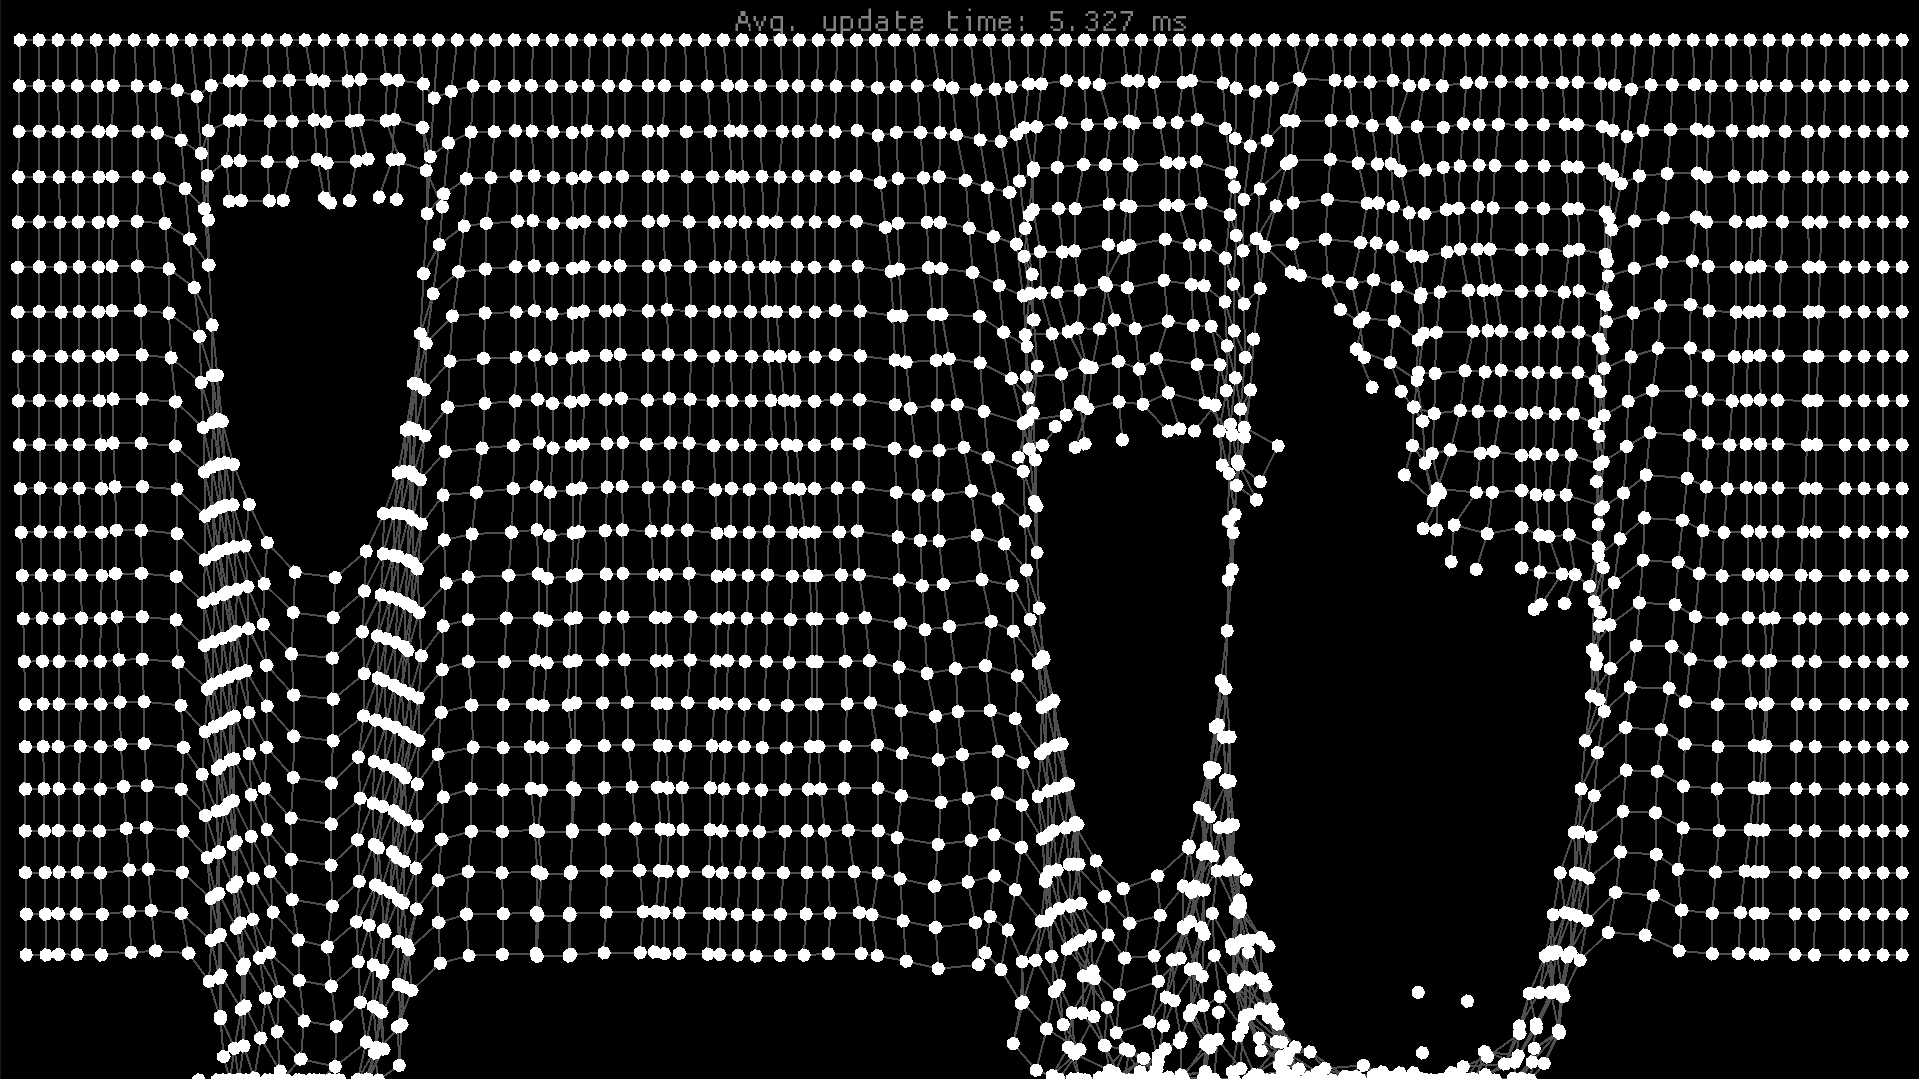
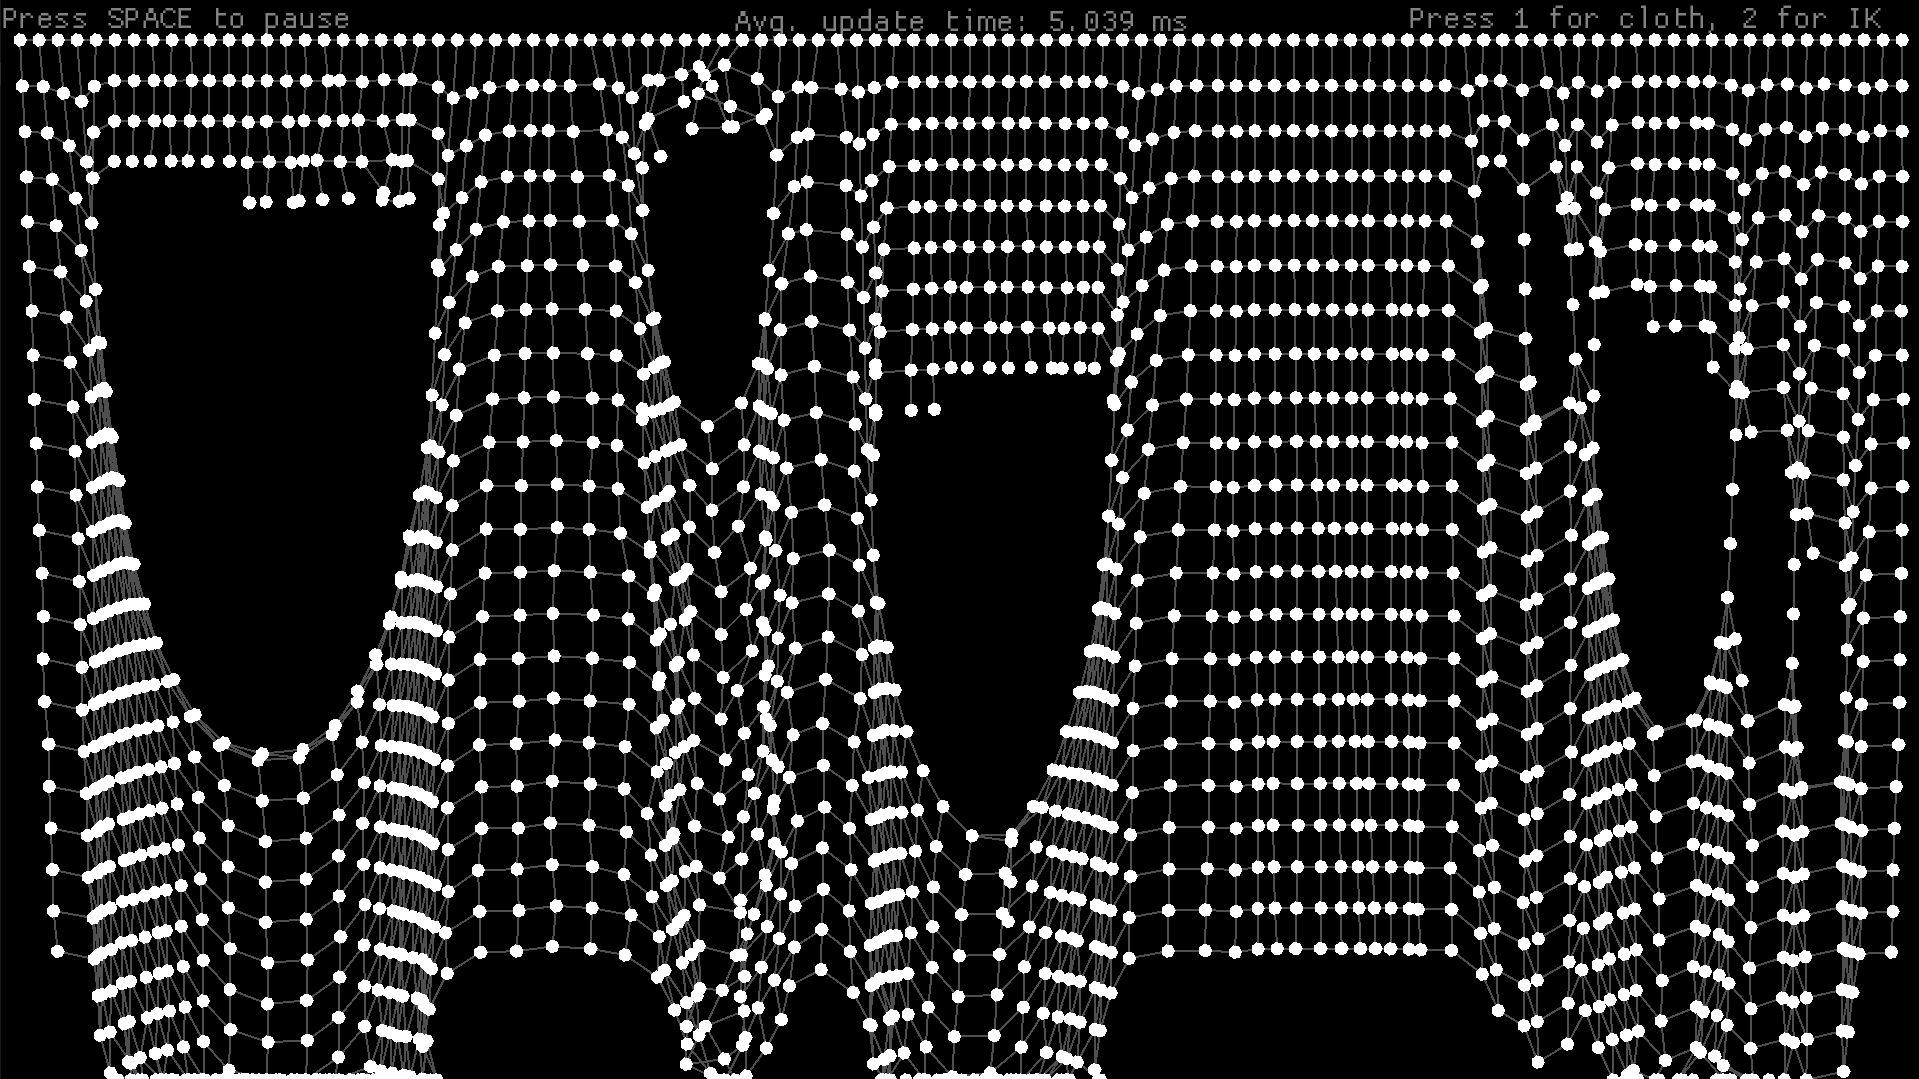
added readme and clean switching between scenarios

diff --git a/src/main.rs b/src/main.rs
@@ -76,6 +76,7 @@ enum TextPlacement {
     Centered,
     CenteredHorizontally,
     TopLeftCorner,
+    TopRightCorner,
     AtPosition,
 }
 
@@ -84,6 +85,7 @@ fn place_text(text: &str, x: f32, y: f32, placement: TextPlacement, color: Color
     let position = match placement {
         TextPlacement::CenteredHorizontally => (x - dims.width / 2.0, y + dims.height),
         TextPlacement::TopLeftCorner => (x, y + dims.height),
+        TextPlacement::TopRightCorner => (x - dims.width, y + dims.height),
         TextPlacement::Centered => (x - dims.width / 2.0, y + dims.height / 2.0),
         TextPlacement::AtPosition => (x, y),
     };
@@ -99,7 +101,6 @@ async fn main() {
 
     let mut simulation = Simulation::new();
     setup_cloth(&mut simulation);
-    // setup_IK(&mut simulation);
 
     let mut time_sum = Duration::ZERO;
     let mut num_iterations = 0;
@@ -140,6 +141,25 @@ async fn main() {
         #[cfg(not(target_arch = "wasm32"))]
         if !simulation.paused {
             time_sum += start.elapsed();
+        }
+
+        place_text(
+            "Press 1 for cloth, 2 for IK",
+            screen_width() - 40.0,
+            0.0,
+            TextPlacement::TopRightCorner,
+            GRAY,
+            40,
+        );
+        if is_key_released(KeyCode::Key1) || is_key_released(KeyCode::Key2) {
+            simulation = Simulation::new();
+            time_sum = Duration::ZERO;
+            num_iterations = 0;
+            if is_key_released(KeyCode::Key1) {
+                setup_cloth(&mut simulation);
+            } else if is_key_released(KeyCode::Key2) {
+                setup_IK(&mut simulation);
+            }
         }
 
         next_frame().await

diff --git a/README.md b/README.md
@@ -1,1 +1,8 @@
-# Verlet Simulation running in the Browser using WASM
+# Verlet Simulation with WASM support
+A small verlet simulation, written to explore verlet integration. It uses `macroquad` for simple rendering and input handling.
+
+There are two scenarios. A cloth simulation:
+![cloth sim](imgs/Cloth.png)
+
+And a small inverse kinematics (FABRIK) implementation:
+![ik](imgs/IK.png)
